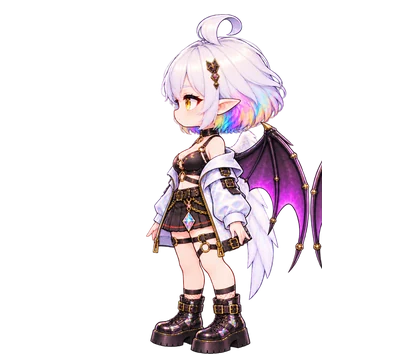
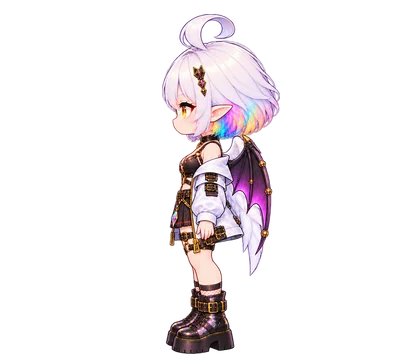
Explorers: Kaos's revised mini statue, matched to the hero's proportions
The author's revised four-view sheet (front, left, back, right) replaces
her first draft on the same 400x360 canvas and ground line. Set beside the
hero at game scale, her head and legs now sit close to his proportions.
Her reference height is measured crown to sole (the curl left out, as
before) and set so she stays at 94% of his crown-to-sole height, the
0.376 : 0.4 ratio the scenes have always used.

Claude-Session: https://claude.ai/code/session_01ECZrs1cydr2xwp55rvWdYK

Changed region(s): [[0.36, 0.0306, 0.81, 1.0]]

diff --git a/packages/mugen-core/content/characters/miniStatueSprites.ts b/packages/mugen-core/content/characters/miniStatueSprites.ts
@@ -6,6 +6,9 @@
 // delivered drafts onto one canvas per character: the same size, the same ground line, the figure the
 // same height in every frame, so nothing jumps when a frame changes or someone turns.
 //
+// Kaos is the revised four-view sheet (front, left, back, right — 作者 2026-10-18, redrawn to the
+// hero's proportions).
+//
 // What was done to the delivered pixels, and nothing more (docs/EXPLORER_MINI_STATUE.md §3):
 //   - the hero's sheet had the soft glow, the sparkles and the gold ring at his feet painted in; those
 //     are taken out here (the game draws its own aura and ring, with states), the figure untouched;
@@ -74,9 +77,10 @@ export const MINI_STATUE_SPRITES: Record<ExplorationCharacterId, ExplorationSpri
   },
   KAOS: {
     id: 'kaos-mini',
-    // Her height head to sole, the hair curl above it left out (as before: a flourish, not her size) —
-    // the curl is about a thirtieth of the 340 drawn.
-    referencePixels: 330,
+    // What the scene's size for her (a little under his) measures. Crown to sole she is 305 of the 340
+    // drawn (the curl above takes the rest), his crown to sole is 324 of his 340 (his spikes the rest):
+    // 320 keeps her crown-to-sole at 94% of his, as it always was (0.376 against 0.4).
+    referencePixels: 320,
     frames: {
       front: { idle: kaos(kaosFrontIdle), walk: [] },
       back: { idle: kaos(kaosBackIdle), walk: [] },

diff --git a/docs/EXPLORER_MINI_STATUE.md b/docs/EXPLORER_MINI_STATUE.md
@@ -99,11 +99,12 @@
 |---|---|---|
 | 主人公 | 前・後ろ・左 | 立ち1＋歩き4（シートの上段・2段目・3段目の左4枚） |
 | 主人公 | 右 | 立ち1（上段右端）＋歩き1（追加でいただいた右向き1枚）。歩く時は、この1枚で少し大きく上下させる |
-| ケイオス | 前 | 立ち1（正面1枚） |
-| ケイオス | 左・後ろ・右 | 立ち1（3面図）。歩きのコマが無いので、歩く時は立ちの絵を少し大きく上下させる |
+| ケイオス | 前・左・後ろ・右 | 立ち1ずつ（主人公に合わせて頭身を直していただいた4面図、2026-10-18）。歩きのコマが無いので、歩く時は立ちの絵を少し大きく上下させる |
 
 - 大きさの比率（主人公：画面の高さの0.4、ケイオス：0.376）と遠近スケールは今までどおり。
 - ケイオスの高さは、頭の上のくるっとした毛を除いて測る（今までと同じ考え方）。
+  - 頭頂から足まででは、主人公（とがった髪先を除く）の94%。
+  - これは以前の比率（0.376：0.4）と同じ。
 - 旧ミニキャラの絵は、アプリでは表示しない。ファイルは Artifact（別の試作）の森が使っているので残した。
 
 ### 届けばそのまま良くなるもの
@@ -112,4 +113,15 @@
 - ケイオスの4方向の歩き（各3枚以上）。
 
 同じ枠・同じ接地点で届けば、`miniStatueSprites.ts` にコマを足すだけで済む。
+
+### ケイオス修正版（主人公に頭身を合わせた4面図、2026-10-18）
+
+- 前・左・後ろ・右の4枚とも背景透過で、光の焼き込みも無い。そのまま切り出して差し替えた。
+- 主人公と同じ画面の大きさで並べて比べた（ゲームと同じ大きさの決まり。足元をそろえて草原の上に置いた）。
+  - 頭が大きく、脚が短くなった。主人公のずんぐりした頭身に近づいている。
+  - 以前の案は脚が長く見え、主人公と並ぶと頭身の違いが目立った。修正版ではそれがほぼ無い。
+  - 主人公の方が頭がまだ少し大きく見える。主人公の髪のボリュームのためで、2人の差としては自然な範囲。
+- 向き：
+  - 左向きは黒い翼が手前、右向きは白い翼が手前。
+  - 金と青の瞳は左右で描き分けてあり、反転ではない。
 
